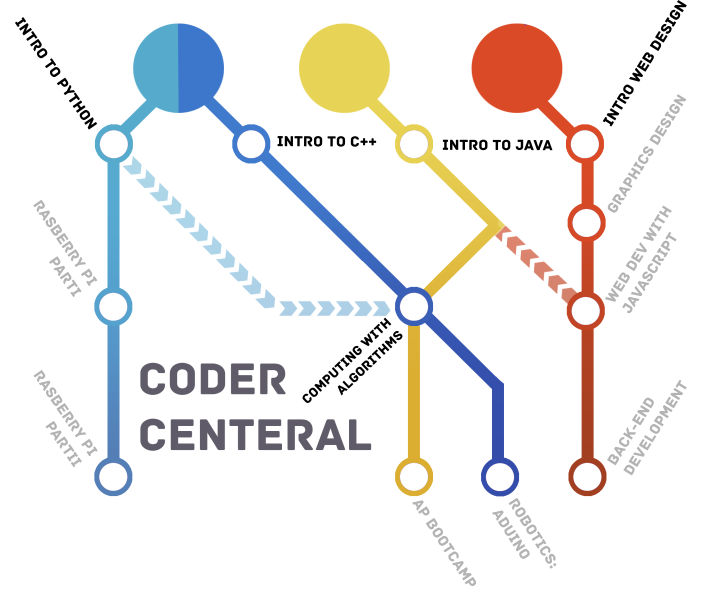
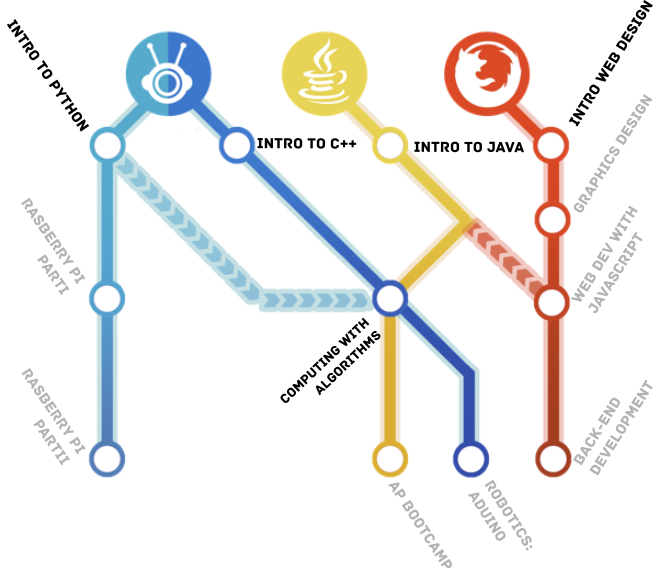
added new tracks symbols

Changed region(s): [[0.0, 0.0, 0.9836, 0.9527], [0.6259, 0.9229, 0.6855, 1.0], [0.5961, 0.8634, 0.6259, 0.9229]]

diff --git a/courses.html b/courses.html
@@ -46,7 +46,7 @@
 
 <div class="container" id="real-tracks">
     <div class="row">
-        <div class=" station" style="position:absolute; top:8px;">
+        <div class=" station" style="position:absolute; top:20px;">
             <img src="images/codercentral_path_blue%20.png" alt="paths" class="col-md-8 col-md-offset-2 layer-0" id="blue">
             <img src="images/codercentral_path_red.png" alt="paths" class="col-md-8 col-md-offset-2 layer-0" id="red"/>
             <img src="images/codercentral_path_yellow.png" alt="paths" class="col-md-8 col-md-offset-2 layer-0" id="yellow"/>

diff --git a/css/general.css b/css/general.css
@@ -105,7 +105,7 @@ body{ overflow-x:hidden; }
     margin-bottom:7%;
 }
 
-#real-tracks{  position:relative; height:100%; }
+#real-tracks{  position:relative; height:120%; }
 
 .stations{
     position:absolute;

diff --git a/css/courses.css b/css/courses.css
@@ -19,7 +19,7 @@ b{
 
 .courseHighlight{
     background-color:lightgrey;
-    height:180%;
+    height:190%;
     width:61%;
     position:absolute;
     z-index:-2;
